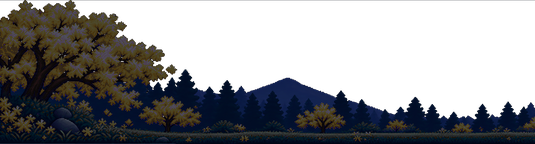
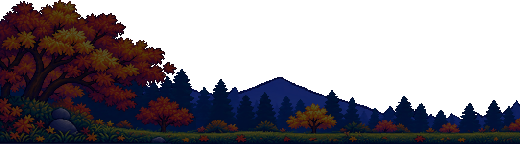
Add more areas

diff --git a/test/area-art.test.ts b/test/area-art.test.ts
@@ -16,26 +16,95 @@ test("PNG pictures survive encoding and decoding", () => {
   assert.deepEqual(decodePng(encodePng(original)), original);
 });
 
-test("summer and autumn panoramas retain full spring foliage and transparency with distinct palettes", async () => {
+for (const [area, width] of [["1-temple", 571], ["2-village", 463]] as const)
+test(`${area} spring panoramas have aligned transparent day/night artwork and warm lights`, async () => {
+  const root = new URL(`../web/areas/${area}/`, import.meta.url);
   for (const part of ["left", "middle", "right"]) {
-    const root = new URL("../web/areas/0-shrine/", import.meta.url);
-    const spring = decodePng(await readFile(new URL(`spring-day-${part}.png`, root)));
-    const variants = [spring.data];
-    for (const season of ["summer", "autumn"]) {
-      const variant = decodePng(await readFile(new URL(`${season}-day-${part}.png`, root)));
-      assert.equal(variant.width, spring.width);
-      assert.equal(variant.height, spring.height);
-      let changed = 0, visible = 0;
-      for (let i = 0; i < spring.data.length; i += 4) {
-        assert.equal(variant.data[i + 3], spring.data[i + 3], `${season}/${part} alpha at ${i / 4}`);
-        if (!spring.data[i + 3]) continue;
-        visible++;
-        if (variant.data[i] !== spring.data[i] || variant.data[i + 1] !== spring.data[i + 1] || variant.data[i + 2] !== spring.data[i + 2]) changed++;
-      }
-      assert.ok(changed / visible > .1, `${season}/${part} visibly changes the palette`);
-      for (const previous of variants) assert.notDeepEqual(variant.data, previous);
-      variants.push(variant.data);
+    const day = decodePng(await readFile(new URL(`spring-day-${part}.png`, root)));
+    const night = decodePng(await readFile(new URL(`spring-night-${part}.png`, root)));
+    assert.equal(day.width, width);
+    assert.equal(day.height, 144);
+    assert.equal(night.width, day.width);
+    assert.equal(night.height, day.height);
+    let clear = 0, bottom = 0, dayLight = 0, nightLight = 0;
+    for (let i = 0; i < day.data.length; i += 4) {
+      assert.ok(day.data[i + 3] === 0 || day.data[i + 3] === 255, "faint alpha residue is removed");
+      assert.equal(night.data[i + 3], day.data[i + 3], "night and weather blends stay aligned");
+      if (!day.data[i + 3]) { clear++; continue; }
+      dayLight += day.data[i]! + day.data[i + 1]! + day.data[i + 2]!;
+      nightLight += night.data[i]! + night.data[i + 1]! + night.data[i + 2]!;
     }
+    assert.ok(clear / (day.width * day.height) > .3, `${part} leaves transparent sky`);
+    assert.ok(nightLight / dayLight > .2 && nightLight / dayLight < .6, `${part} legible night palette`);
+    for (let x = 0; x < day.width; x++) if (day.data[(143 * day.width + x) * 4 + 3]) bottom++;
+    assert.ok(bottom / day.width > .9, `${part} ground reaches the baseline`);
+    assert.equal(day.data[(10 * day.width + width - 30) * 4 + 3], 0);
+    const lights = area === "1-temple"
+      ? part === "right" ? [[194, 91, 217, 106], [276, 91, 299, 106]]
+        : part === "left" ? [[133, 95, 143, 103]] : []
+      : part === "right" ? [[135, 113, 143, 123], [218, 113, 225, 123], [281, 117, 296, 130]] : [];
+    for (const [left, top, right, bottom] of lights) {
+      let warm = 0;
+      for (let y = top!; y < bottom!; y++) for (let x = left!; x < right!; x++) {
+        const i = (y * night.width + x) * 4;
+        if (night.data[i + 3] && night.data[i]! > 150 && night.data[i]! > night.data[i + 2]! * 1.5) warm++;
+      }
+      assert.ok(warm > 2, `${part} warm light`);
+    }
+  }
+});
+
+test("imported summer artwork has clean sky, aligned ground and softened joins", async () => {
+  const root = new URL("../web/areas/0-shrine/", import.meta.url);
+  for (const time of ["day", "night"]) {
+    for (const [part, width] of [["left", 480], ["middle", 481], ["right", 524]] as const) {
+      const art = decodePng(await readFile(new URL(`summer-${time}-${part}.png`, root)));
+      assert.equal(art.width, width);
+      assert.equal(art.height, 144);
+      let clear = 0, bottom = 0, green = 0;
+      for (let i = 0; i < art.data.length; i += 4) {
+        const x = (i / 4) % width;
+        const tapered = part === "left" ? x >= width - 64 : part === "right" ? x < 64 : x >= width - 48;
+        if (!tapered) assert.ok(art.data[i + 3] === 0 || art.data[i + 3] === 255, "sky away from the join stays clean");
+        if (!art.data[i + 3]) { clear++; continue; }
+        if (art.data[i + 1]! > art.data[i]! * 1.15 && art.data[i + 1]! > art.data[i + 2]!) green++;
+      }
+      assert.ok(clear / (width * 144) > .3, `${time}/${part} clear sky`);
+      assert.ok(green > 500, `${time}/${part} green summer foliage`);
+      for (let x = 0; x < width; x++) if (art.data[(143 * width + x) * 4 + 3]) bottom++;
+      assert.ok(bottom / width > .9, `${time}/${part} ground reaches the baseline`);
+      assert.equal(art.data[(10 * width + 450) * 4 + 3], 0);
+      if (part !== "middle") {
+        const edge = part === "left" ? width - 1 : 0;
+        for (let y = 0; y < 144; y++) assert.equal(art.data[(y * width + edge) * 4 + 3], 0, "side joins reveal the backdrop");
+      } else {
+        let difference = 0;
+        for (let y = 0; y < 144; y++) for (let channel = 0; channel < 4; channel++)
+          difference += Math.abs(art.data[(y * width) * 4 + channel]! - art.data[(y * width + width - 1) * 4 + channel]!);
+        assert.ok(difference / (144 * 4) < 12, "tile boundary has no abrupt colour/alpha jump");
+      }
+    }
+  }
+});
+
+test("imported autumn artwork has a transparent sky, aligned ground and warm fall foliage", async () => {
+  const root = new URL("../web/areas/0-shrine/", import.meta.url);
+  for (const time of ["day", "night"]) for (const part of ["left", "middle", "right"]) {
+    const art = decodePng(await readFile(new URL(`autumn-${time}-${part}.png`, root)));
+    assert.equal(art.width, 520);
+    assert.equal(art.height, 144);
+    let clear = 0, bottom = 0, warm = 0;
+    for (let i = 0; i < art.data.length; i += 4) {
+      assert.ok(art.data[i + 3] === 0 || art.data[i + 3] === 255, "hard alpha preserves pixel edges");
+      if (!art.data[i + 3]) { clear++; continue; }
+      assert.ok(Math.min(art.data[i]!, art.data[i + 1]!, art.data[i + 2]!) < 221, "white background is removed");
+      if (art.data[i]! > art.data[i + 1]! * 1.3 && art.data[i + 1]! > art.data[i + 2]! * 1.3) warm++;
+    }
+    assert.ok(clear / (art.width * art.height) > .3, `${time}/${part} leaves room for the sky`);
+    assert.ok(warm > 300, `${time}/${part} retains orange/red leaves`);
+    for (let x = 0; x < art.width; x++) if (art.data[((143 * art.width + x) * 4) + 3]) bottom++;
+    assert.ok(bottom / art.width > .9, `${time}/${part} ground reaches the baseline`);
+    assert.equal(art.data[(10 * art.width + 400) * 4 + 3], 0);
   }
 });
 
@@ -86,16 +155,16 @@ test("shrine night panoramas preserve each season's geometry and transparency wi
         nightLight += .2126 * night.data[i]! + .7152 * night.data[i + 1]! + .0722 * night.data[i + 2]!;
       }
       assert.ok(nightLight / dayLight > .2 && nightLight / dayLight < .6, `${season}/${part} is darker but legible`);
-      if (part === "right" && season !== "winter") {
+      if (part === "right" && season === "spring") {
         const lantern = (75 * night.width + 92) * 4;
         assert.ok(night.data[lantern]! > 150 && night.data[lantern]! > night.data[lantern + 2]! * 2,
           `${season} keeps the lantern warmly lit`);
       }
-      if (part === "right" && season === "winter") {
+      if (part === "right" && ["summer", "autumn", "winter"].includes(season)) {
         let warm = 0;
         for (let i = 0; i < night.data.length; i += 4)
           if (night.data[i + 3] && night.data[i]! > 150 && night.data[i]! > night.data[i + 2]! * 1.5) warm++;
-        assert.ok(warm > 10, "winter shrine windows remain warmly lit");
+        assert.ok(warm > 10, `${season} shrine windows remain warmly lit`);
       }
     }
   }

diff --git a/web/style.css b/web/style.css
@@ -77,7 +77,8 @@ button:disabled { color: #666; cursor: default; }
 .menu-panel button { position: relative; text-align: left; padding: 6px 10px 6px 26px; border: 0; border-radius: 5px; background: transparent; }
 .menu-panel button:hover:enabled, .menu-panel button:focus-visible { background: #24313a; }
 .menu-panel a { display: block; padding: 6px 10px 6px 26px; border-radius: 5px; color: inherit; text-decoration: none; }
-.menu-panel a:hover, .menu-panel a:focus-visible { background: #24313a; outline: none; }
+.menu-panel a:hover { background: #24313a; }
+.menu-panel a:focus-visible { outline: 2px solid #8ddaff; outline-offset: -2px; }
 .menu-panel button[aria-pressed="true"]::before, .menu-panel button[aria-expanded="true"]::before { content: "●"; position: absolute; left: 10px; color: #8ddaff; font-size: 9px; line-height: 19px; }
 .menu-font { display: flex; align-items: center; justify-content: space-between; gap: 10px; margin-top: 4px; padding: 8px 10px 4px; border-top: 1px solid #2a2a2a; color: #bbb; font-size: 12px; white-space: nowrap; }
 .menu-font input { width: 110px; accent-color: #8ddaff; }

diff --git a/test/server.test.ts b/test/server.test.ts
@@ -401,6 +401,14 @@ test("HTTP UI, isolated sessions, real image bytes, sprite metadata, errors and 
       }
     }
     assert.equal((await fetch(base + "/areas/0-shrine/monsoon-day-left.png")).status, 404);
+    for (const [area, directory] of [["1", "1-temple"], ["2", "2-village"]])
+    for (const time of ["day", "night"]) for (const part of ["left", "middle", "right"]) {
+      const picture = areas[area!][`spring-${time}`][part];
+      assert.match(picture, new RegExp(`^/areas/${directory}/spring-${time}-${part}\\.png\\?v=\\d+$`));
+      const response = await fetch(base + picture);
+      assert.equal(response.status, 200);
+      assert.equal(response.headers.get("content-type"), "image/png");
+    }
     assert.equal((await fetch(base + "/areas/0-shrine/..%2f..%2fapp.js")).status, 404);
     const maps = await fetch(base + "/api/maps");
     assert.equal(maps.status, 200);

diff --git a/docs/hotpatches.md b/docs/hotpatches.md
@@ -587,14 +587,32 @@ none; an evening dims the day pictures slightly. An area or season with no pictu
 The server lists the files at `/api/areas`; the client reads that list once per page load.
 
 Hakurei Shrine includes all four daytime seasons: the original spring blossoms, green summer foliage, golden
-autumn foliage, and snow-covered winter scenery. Summer and autumn are palette variants of spring, preserving
-its full foliage, geometry and transparency without removing leaves. Winter uses supplied, separately generated snow-covered artwork
+autumn foliage, and snow-covered winter scenery. Summer uses supplied green-leaf artwork at native widths
+(480px left, 481px middle, 524px right after seam cleanup), with faint alpha residue removed, transparent bottom rows
+trimmed and top padding to the shared 144px height without stretching. A cut-off tree at the left panel's far end
+is cropped away; the side panels taper over 64px into the backdrop, and the repeating middle has a 48px
+overlapped join. Day and night use identical edge treatment. Its night grade retains warm shrine windows.
+Autumn uses supplied generated artwork with
+red/orange maple leaves, its white background removed before pixel-grid cleanup and resizing to 520×144px
+per piece. Its matching night grade preserves geometry for weather blending and keeps the shrine windows warm.
+Winter uses supplied, separately generated snow-covered artwork
 for all three pieces, cleaned with the pixel-grid importer and uniformly resized to 144px tall (500px left,
 501px middle/right). Its sky remains transparent and its ground is aligned across the pieces. The matching
 winter night set is a cooler, darker grade of this artwork that retains the warm shrine windows.
 Each season also includes a dedicated night set with cooler,
 darker moonlit colors, warm shrine windows and lanterns, and brighter moonlit snow in winter. Night sets retain
 the daytime geometry and transparency and are displayed without an additional night-dimming filter.
+
+Myouren Temple includes supplied spring artwork: a pine and stone lanterns on the left,
+a repeating cherry-blossom landscape, and the temple hall on the right. The three pieces are cleaned
+with the pixel-grid importer, ground-aligned and uniformly resized to 571×144px. A matching cooler
+night grade preserves transparency and geometry, retaining warm hall windows and lantern light.
+Other temple seasons still use the SVG fallback.
+
+Human Village includes supplied spring artwork with a cherry tree and market stall on the left,
+a repeating rural backdrop, and traditional shops on the right. Pixel-grid cleanup and uniform resizing
+produce three ground-aligned 463×144px pieces. The matching night grade keeps shop windows and
+paper lanterns warm, with identical geometry for weather blending. Other village seasons use the SVG fallback.
 
 During bad-weather days the panorama blends toward its matching night set: cloudy/fog 18%, rain 32%, storm 48%,
 snow 20%, and blizzard 35%. This requires complete day and night sets; missing night pieces leave the day artwork
